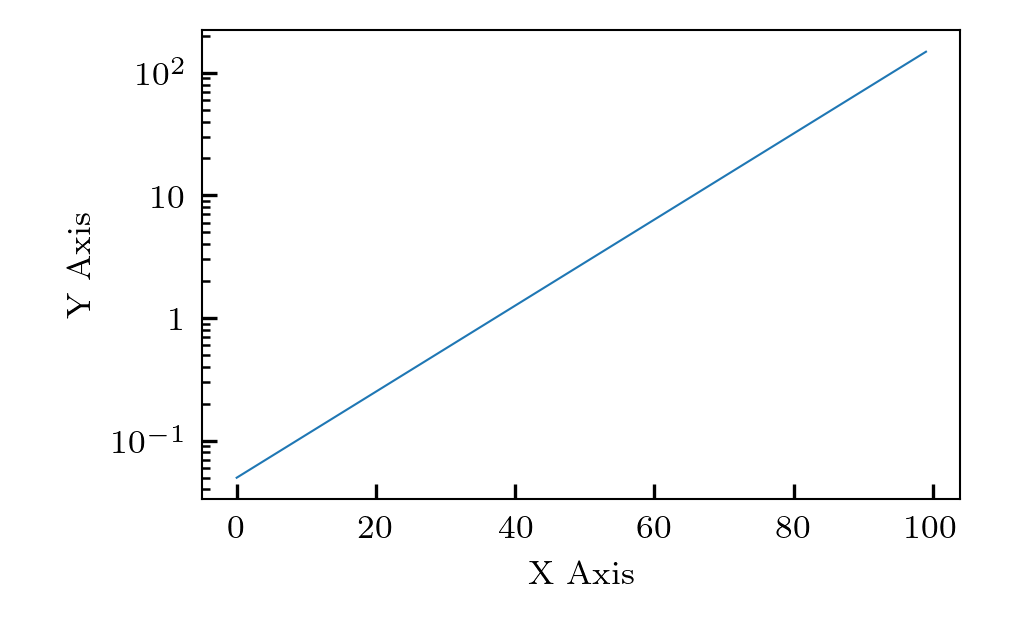
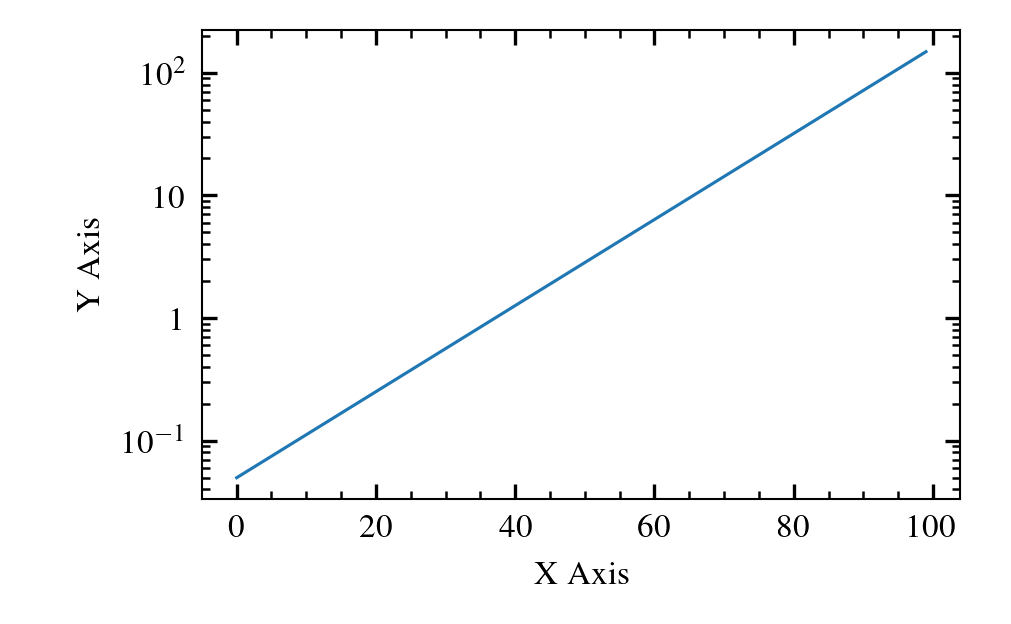
:beetle: Update font family in `set_` functions

diff --git a/cosmoplots/figure_defs.py b/cosmoplots/figure_defs.py
@@ -1,6 +1,7 @@
 #!/usr/bin/python
 # -*- Encoding: UTF-8 -*-
 
+from typing import List
 import numpy as np
 import matplotlib as mpl
 import matplotlib.pyplot as plt
@@ -39,26 +40,44 @@ golden_ratio = 0.5 * (1.0 + np.sqrt(5.0))
 fig_dpi = 300.0
 
 
-def set_rcparams_aip(myParams, num_cols=1, ls="thin"):
-    """
-    Half column width figures for revtex, see
-    http://publishing.aip.org/authors/preparing-graphics
-    Input:
-    =======
-    myParams...: matplotlib.rcParams, the parameters from matplotlib
-    num_cols...: int, number of columnes the figure spans.
+def set_rcparams_aip(
+    myParams: mpl.RcParams, num_cols: int = 1, ls: str = "thin"
+) -> List[float]:
+    """Half column width figures for revtex.
+
+    See http://publishing.aip.org/authors/preparing-graphics
+
+    Parameters
+    ----------
+    myParams: matplotlib.rcParams
+        The parameters from matplotlib
+    num_cols: int
+        Number of columns the figure spans.
                       1 column  = 3.37" by 2.08"
                       2 columns = 6.69" by 4.13"
-    ls.........: string, either "thick" or "thin". Defaults to "thin"
-    Output:
-    =======
-    None
+    ls: str
+        Either "thick" or "thin". Defaults to "thin"
+
+    Returns
+    -------
+    List[float]
+        A list of figure widths in points.
+
+    Raises
+    ------
+    ValueError
+        If `ls` is not "thick" or "thin".
+    ValueError
+        If num_cols is not 1 or 2.
     """
 
-    assert ls in ["thick", "thin"]
-    ls_dict = {"thick": 1.5, "thin": 0.5}
+    if ls not in ("thick", "thin"):
+        raise ValueError("ls must be either 'thick' or 'thin'")
+    linewidth = 0.75
+    if ls == "thick":
+        linewidth *= 2
 
-    assert num_cols in [1, 2]
+    fontsize = 8
 
     # Define axis size to be used
     if num_cols == 1:
@@ -66,39 +85,49 @@ def set_rcparams_aip(myParams, num_cols=1, ls="thin"):
         axes_size = [ax_x0, ax_y0, 0.95 - ax_x0, 0.95 - ax_y0]
     elif num_cols == 2:
         ax_x0, ax_y0 = 0.1, 0.2
-        axes_size = [ax_x0, ax_y0, 0.95 - ax_x0, 0.95 - ax_y0]
+        axes_size = [ax_x0, ax_y0, 0.975 - ax_x0, 0.95 - ax_y0]
+    else:
+        raise ValueError("num_cols must be 1 or 2")
 
     # Figure size in inch
     fig_width_in = num_cols * 3.37
     fig_height_in = 3.37 / golden_ratio
-    # figure size in pts
-    fig_width_pt = fig_width_in * fig_dpi
-    fig_height_pt = fig_height_in * fig_dpi
-    # print 'Figure size: %4.2f"" x %4.2f""' % (fig_width_in, fig_height_in)
-    # print 'Figure resolution: %d dpi' % fig_dpi
 
-    # myParams['font.family'] = 'Times'
-    myParams["font.size"] = 8
-    myParams["axes.linewidth"] = 0.5
-    myParams["patch.linewidth"] = 0.5  # For legend box borders
-    myParams["axes.labelsize"] = 8
-    myParams["legend.fontsize"] = 8
-    myParams["lines.markersize"] = 2.0 * ls_dict[ls]
-    myParams["lines.linewidth"] = ls_dict[ls]
-    myParams["figure.dpi"] = 300
+    # Figure size and dpi
+    myParams["figure.dpi"] = fig_dpi
     myParams["figure.figsize"] = [fig_width_in, fig_height_in]
-    myParams["text.usetex"] = True
-    myParams["savefig.dpi"] = 300
-    myParams["pdf.fonttype"] = 42
+    myParams["savefig.dpi"] = fig_dpi
 
+    # Figure legend
+    myParams["legend.framealpha"] = 1.0
+    myParams["legend.fancybox"] = False
+    myParams["legend.edgecolor"] = "k"
+    myParams["patch.linewidth"] = 0.5  # For legend box borders
+    myParams["legend.handlelength"] = 1.45  # Show nice, even
+    # numbers for different line styles
+
+    # Font and text
+    myParams["text.usetex"] = True
+    myParams["pdf.fonttype"] = 42
+    myParams["font.family"] = "Times"
+    myParams["font.size"] = fontsize
+    myParams["axes.labelsize"] = fontsize
+    myParams["legend.fontsize"] = fontsize
+
+    # Line size and marker size
+    myParams["lines.markersize"] = 3.0 * linewidth
+    myParams["lines.linewidth"] = linewidth
+
+    # Axes thickness
+    myParams["axes.linewidth"] = 0.5
     # Enable minor ticks
-    # myParams['ytick.minor.visible'] = True
-    # myParams['xtick.minor.visible'] = True
+    myParams["ytick.minor.visible"] = True
+    myParams["xtick.minor.visible"] = True
     # Default ticks on both sides of the axes
-    # myParams["xtick.top"] = True
-    # myParams["xtick.bottom"] = True
-    # myParams["ytick.left"] = True
-    # myParams["ytick.right"] = True
+    myParams["xtick.top"] = True
+    myParams["xtick.bottom"] = True
+    myParams["ytick.left"] = True
+    myParams["ytick.right"] = True
     # All ticks point inward
     myParams["xtick.direction"] = "in"
     myParams["ytick.direction"] = "in"
@@ -119,7 +148,7 @@ def set_rcparams_article_thickline(myParams):
     # print 'Figure size: %4.2f"" x %4.2f""' % (fig_width_in, fig_height_in)
     # print 'Figure resolution: %d dpi' % fig_dpi
 
-    # myParams['font.family'] = 'Time'
+    myParams["font.family"] = "Times"
     myParams["font.size"] = 8
     myParams["axes.linewidth"] = 0.5
     myParams["axes.labelsize"] = 8
@@ -165,6 +194,7 @@ def set_rcparams_poster(myParams):
     myParams["figure.figsize"] = [fig_width_in, fig_height_in]
 
     # Set text parameters etc.
+    myParams["font.family"] = "Times"
     myParams["font.size"] = 16
     myParams["axes.labelsize"] = 16
     myParams["legend.fontsize"] = 12
@@ -204,6 +234,7 @@ def set_rcparams_talk(myParams):
     fig_width_in = 6
     fig_height_in = fig_width_in / golden_ratio
 
+    myParams["font.family"] = "Times"
     myParams["font.size"] = 16
     myParams["axes.linewidth"] = 1.0
     myParams["legend.fontsize"] = 12

diff --git a/README.md b/README.md
@@ -24,8 +24,8 @@ axes_size = cosmoplots.set_rcparams_aip(plt.rcParams, num_cols=1, ls="thin")
 a = np.exp(np.linspace(-3, 5, 100))
 fig = plt.figure()
 ax = fig.add_axes(axes_size)
-ax.set_xlabel(r"$\textnormal{X Axis}$")
-ax.set_ylabel(r"$\textnormal{Y Axis}$")
+ax.set_xlabel("X Axis")
+ax.set_ylabel("Y Axis")
 base = 2  # Default is 10, but 2 works equally well
 cosmoplots.change_log_axis_base(ax, "x", base=base)
 # Do plotting ...
@@ -58,8 +58,8 @@ axes_size = cosmoplots.set_rcparams_aip(plt.rcParams, num_cols=1, ls="thin")
 a = np.exp(np.linspace(-3, 5, 100))
 fig = plt.figure()
 ax = fig.add_axes(axes_size)
-ax.set_xlabel(r"$\textnormal{X Axis}$")
-ax.set_ylabel(r"$\textnormal{Y Axis}$")
+ax.set_xlabel("X Axis")
+ax.set_ylabel("Y Axis")
 cosmoplots.change_log_axis_base(ax, "y")
 ax.semilogy(a)
 # Commenting out the below line result in the default base10 ticks
